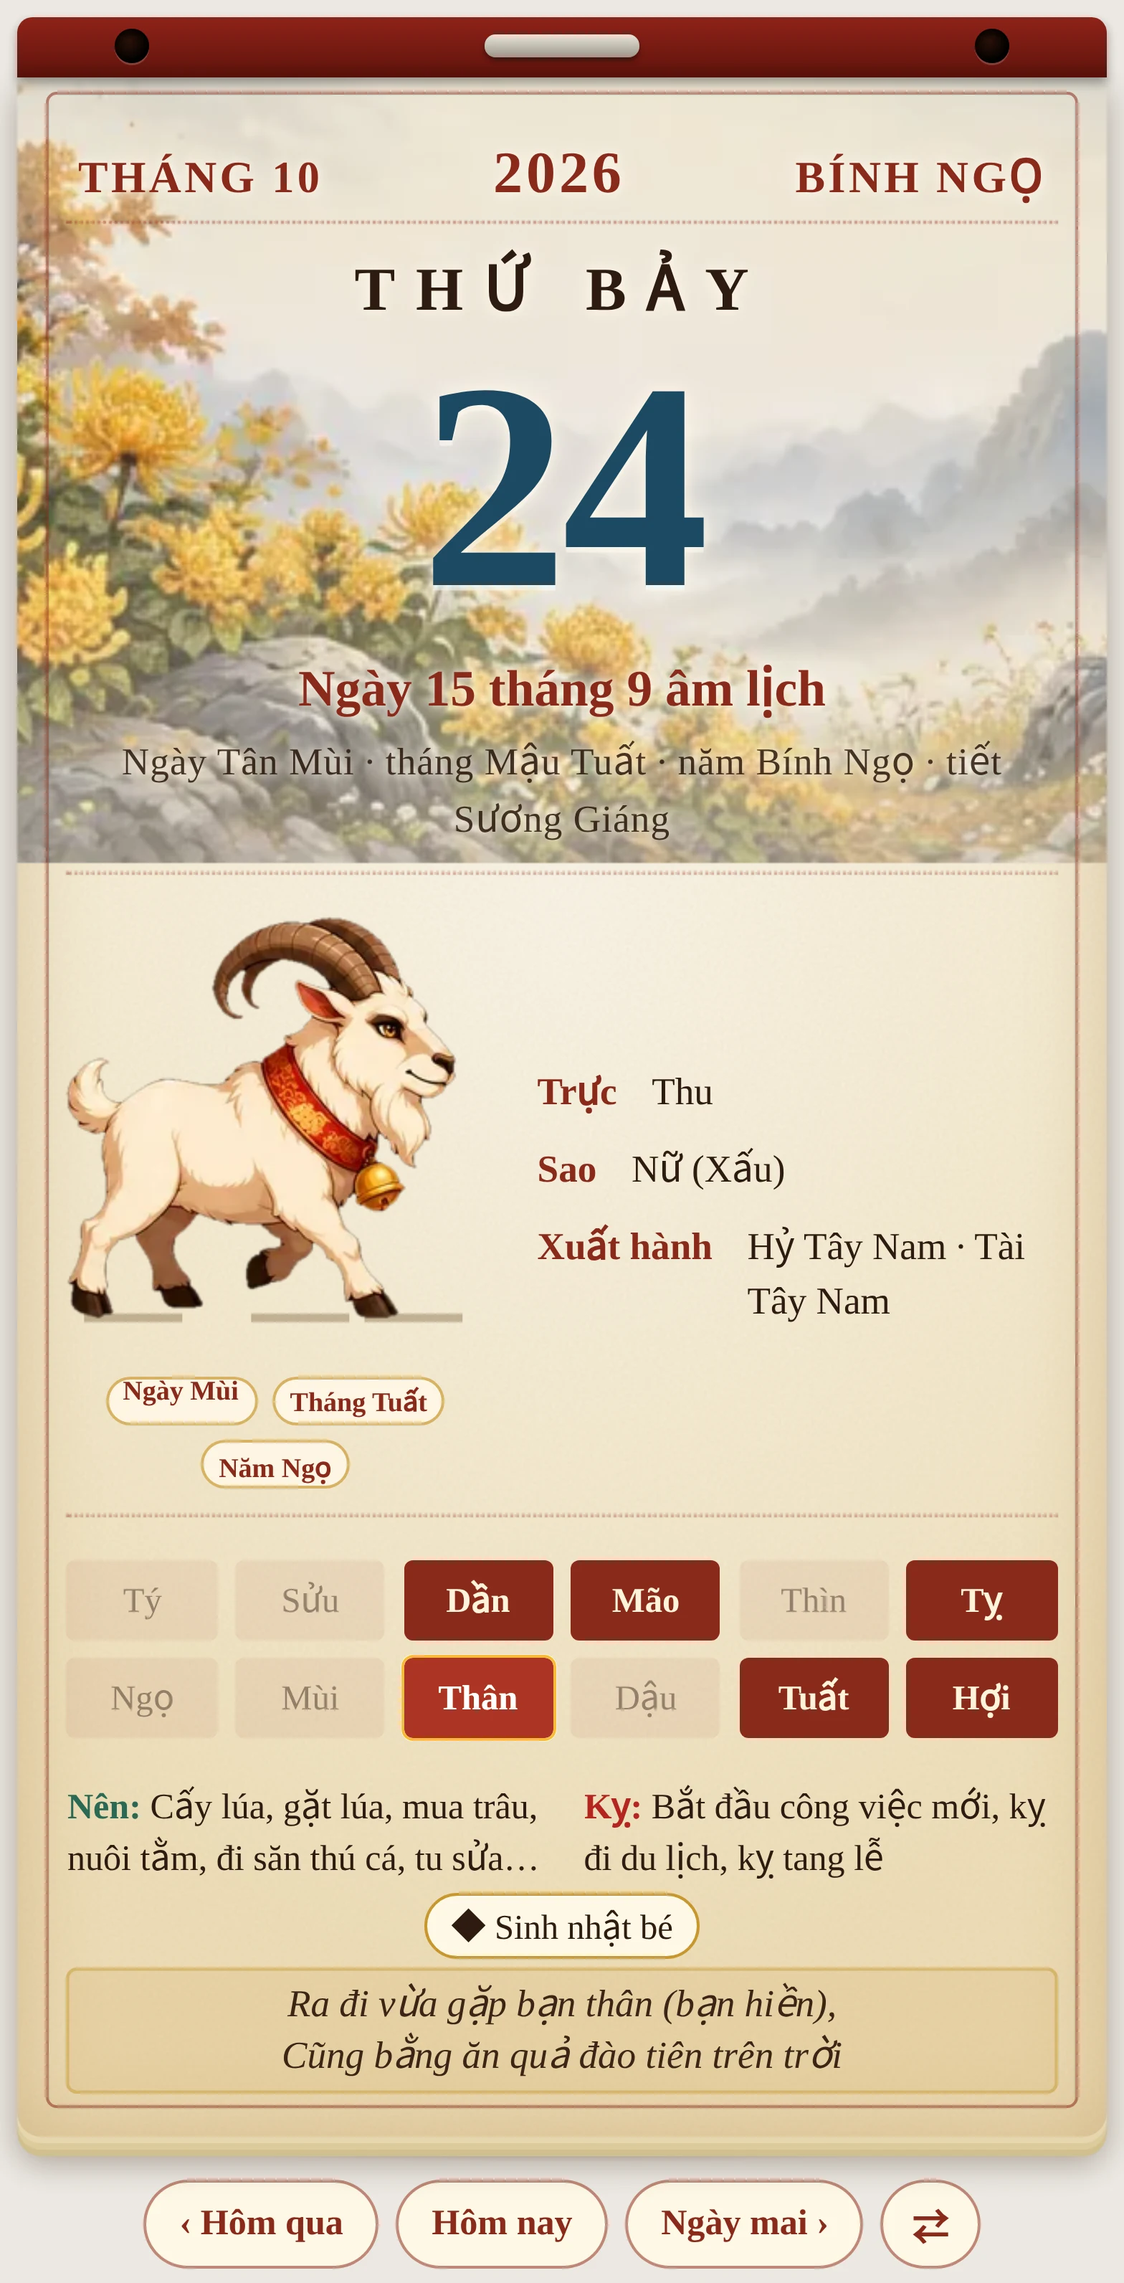
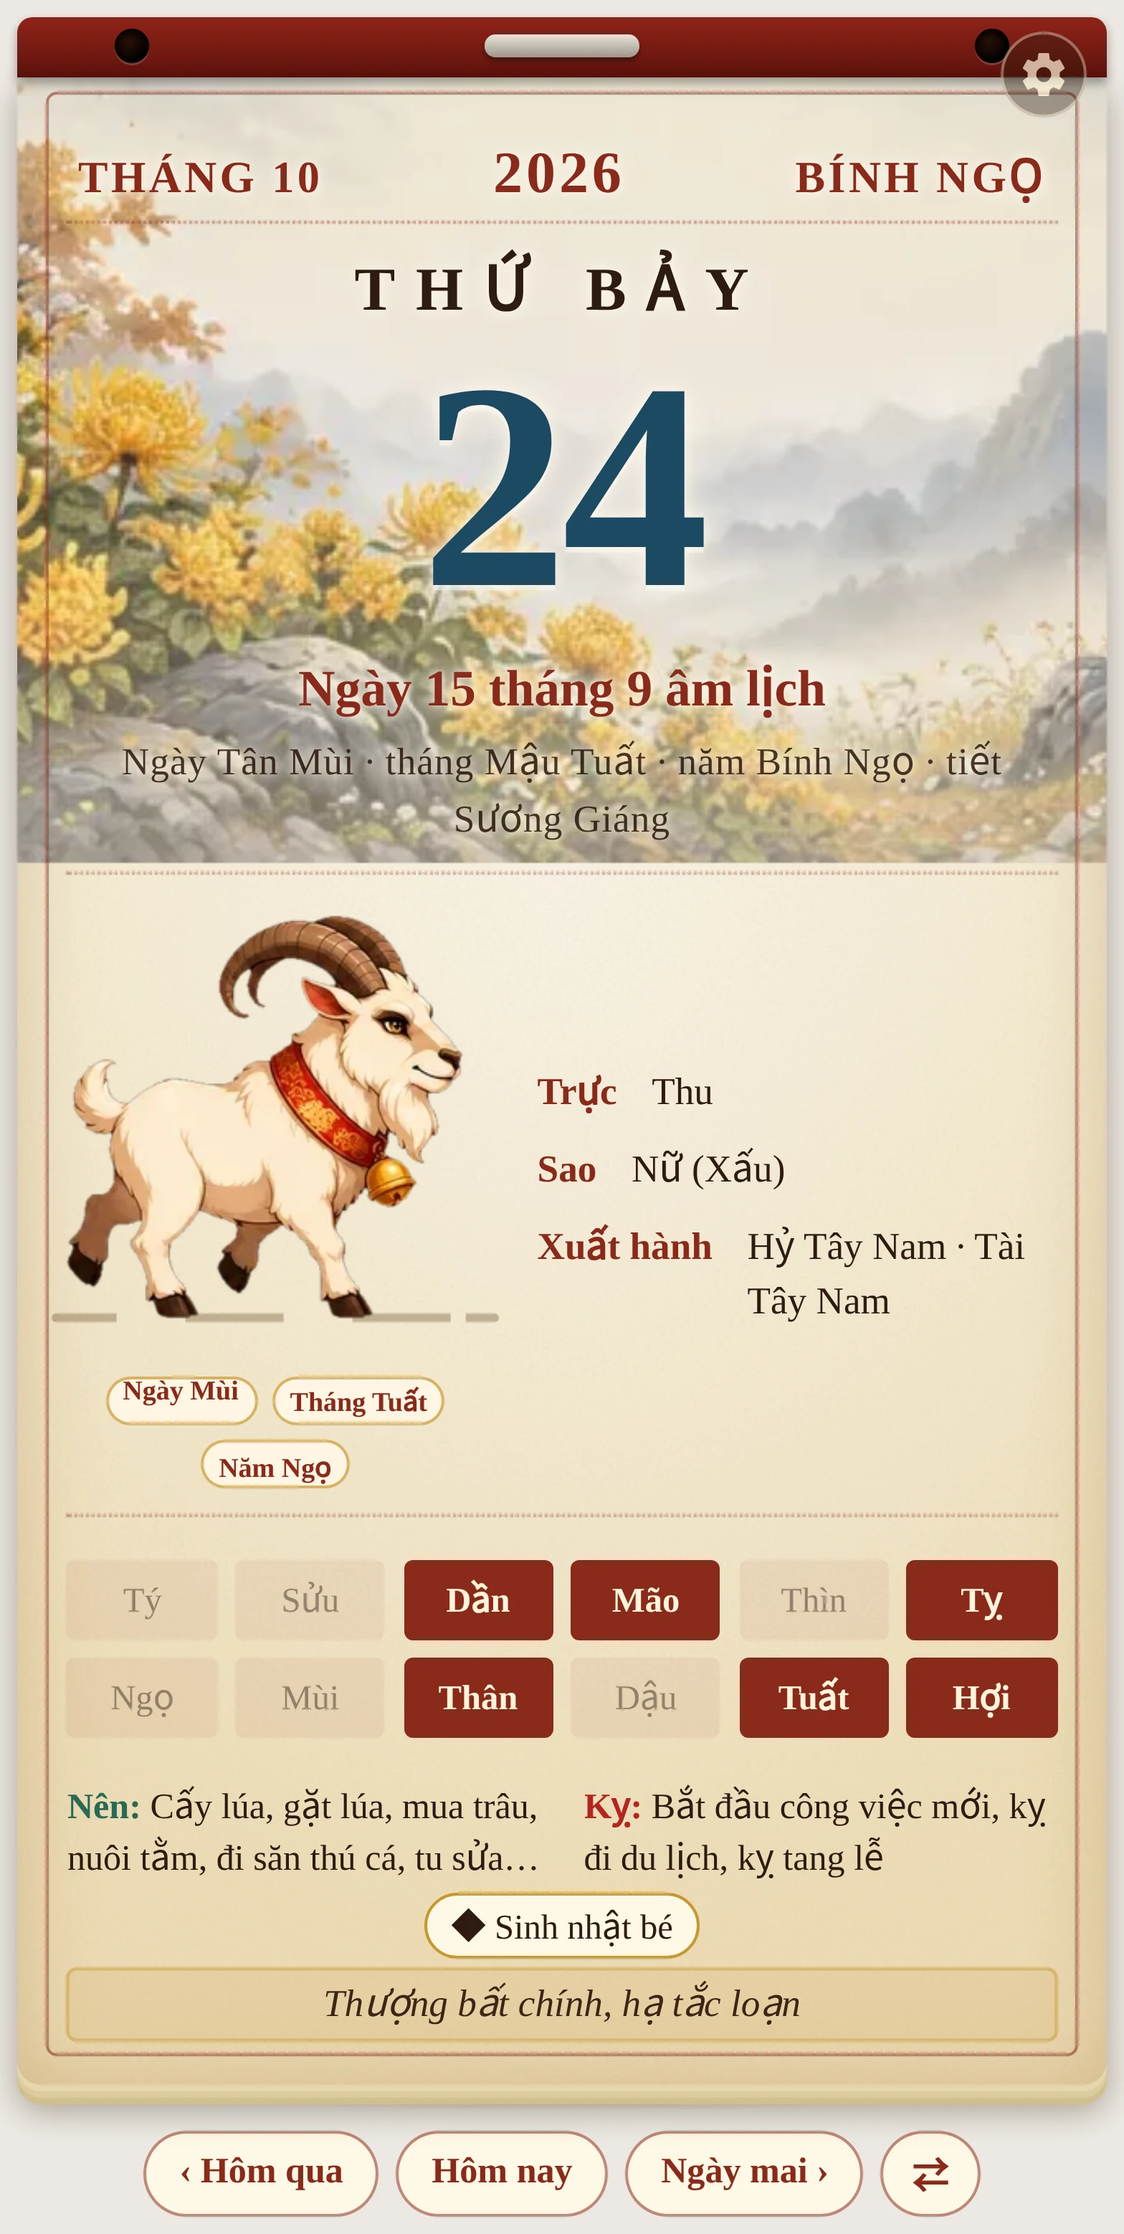
Thẻ: nút bánh răng chỉnh tốc độ, thời gian bước và nghỉ ngay trên thẻ
- Bảng ba thanh trượt (Tốc độ bước, Bước trong, Nghỉ) mở bằng nút bánh răng ở góc thẻ, cả hai kiểu lịch; áp dụng tức thì,
  nhớ riêng từng thiết bị (localStorage, bọc try/catch); Mặc định xoá giá trị đã nhớ; cai_dat: false để ẩn nút.
- nghi_giay: 0 = bước liên tục; toc_do giới hạn 0,25–4.
- Hộp cấu hình trong trình chỉnh thẻ của HA (ha-form) với cùng các tuỳ chọn.
- Test giữ README và thẻ không lệch tên tuỳ chọn.

Claude-Session: https://claude.ai/code/session_01RuPofRMvzvZPPPoDv3dRha

diff --git a/custom_components/lich_viet/frontend/lich-bloc-xua-card.js b/custom_components/lich_viet/frontend/lich-bloc-xua-card.js
@@ -103,8 +103,8 @@ async function hinhThu(khoa, chay, heSo = 1) {
   const sp = await dongSprite(khoa);
   if (sp) {
     const c = THU_ANH[khoa], n = KHUNG_BUOC;
-    const fk = c.fps * (+heSo > 0 ? +heSo : 1);
-    return `<div class="spx${chay ? " chay" : ""}" style="aspect-ratio:${sp.rong}/${sp.cao};--bg:url('${GOC}${khoa}.webp');--bs:${c.cot * 100}% ${c.hang * 100}%;--sd:${(n / fk).toFixed(3)}s;--dd:${(n / fk / 3).toFixed(3)}s;--spa:sp-${khoa};--p4:${viTri(KHUNG_BUOC, c.cot, c.hang)};--p5:${viTri(KHUNG_BUOC + 1, c.cot, c.hang)}" role="img" aria-label="${esc(TEN_THU[khoa] || "")}"><i class="a"></i><i class="b"></i><b class="dat"></b></div>`;
+    const fk = c.fps * Math.min(4, Math.max(0.25, +heSo > 0 ? +heSo : 1));   // toc_do giới hạn 0,25–4
+    return `<div class="spx${chay ? " chay" : ""}" data-fps="${c.fps}" style="aspect-ratio:${sp.rong}/${sp.cao};--bg:url('${GOC}${khoa}.webp');--bs:${c.cot * 100}% ${c.hang * 100}%;--sd:${(n / fk).toFixed(3)}s;--dd:${(n / fk / 3).toFixed(3)}s;--spa:sp-${khoa};--p4:${viTri(KHUNG_BUOC, c.cot, c.hang)};--p5:${viTri(KHUNG_BUOC + 1, c.cot, c.hang)}" role="img" aria-label="${esc(TEN_THU[khoa] || "")}"><i class="a"></i><i class="b"></i><b class="dat"></b></div>`;
   }
   return `<div class="thu ${chay ? "di" : "nghi"}">${veConGiap(khoa, "u" + ++_uid)}</div>`;
 }
@@ -177,6 +177,19 @@ button{font:inherit;color:inherit}
 .bong-to{position:absolute;inset:0;z-index:5;pointer-events:none;opacity:0;background:linear-gradient(180deg,rgba(255,255,255,.0) 0,rgba(40,20,5,.45) 100%)}
 .canh-xe{position:absolute;z-index:7;top:5.6cqw;right:0;width:13cqw;height:13cqw;pointer-events:none;
  background:linear-gradient(225deg,rgba(0,0,0,0) 48%,rgba(90,60,20,.28) 50%,#fff7e0 52%,#e3d2a6 100%);border-radius:0 0 0 2cqw;transition:width .25s,height .25s;opacity:.0}
+.banh{position:absolute;top:1.4cqw;right:1.8cqw;z-index:30;width:30px;height:30px;border-radius:50%;border:1px solid rgba(255,244,217,.55);background:rgba(45,27,16,.55);color:#fff4d9;display:flex;align-items:center;justify-content:center;padding:0;cursor:pointer;opacity:.7;transition:opacity .2s,transform .3s;-webkit-tap-highlight-color:transparent}
+.banh:hover,.banh.mo{opacity:1}.banh.mo{transform:rotate(60deg)}
+.cd{position:absolute;top:calc(1.4cqw + 36px);right:1.8cqw;z-index:30;width:min(92%,300px);box-sizing:border-box;padding:12px 14px 10px;border-radius:12px;background:rgba(250,243,224,.97);border:1px solid var(--vien);box-shadow:0 8px 28px rgba(0,0,0,.45);color:var(--muc);font:14px/1.35 "Noto Serif","Playfair Display",Georgia,serif}
+.cd[hidden]{display:none}
+.cd-tieude{font-weight:700;color:var(--vien);margin-bottom:8px}
+.cd-hang{display:grid;grid-template-columns:1fr auto;gap:2px 8px;margin-bottom:10px}
+.cd-hang input{grid-column:1/3;width:100%;margin:2px 0;accent-color:var(--vien)}
+.cd-hang small{grid-column:1/3;opacity:.7;font-size:12px}
+.cd-gt{color:var(--vien);font-variant-numeric:tabular-nums}
+.cd-nut{display:flex;gap:8px;justify-content:flex-end}
+.cd-nut button{border:1px solid var(--vien);background:#fff8e6;color:var(--vien);border-radius:99px;padding:5px 14px;font:inherit;font-weight:700;cursor:pointer}
+.cd-nut .chinh{background:var(--vien);color:#fff4d9}
+.cd-chuthich{margin-top:6px;font-size:11px;opacity:.6;text-align:right}
 .ban:hover .canh-xe{opacity:1}
 /* thanh nút */
 .thanhnut{display:flex;flex-wrap:wrap;justify-content:center;gap:1.6cqw;margin-top:4cqw}
@@ -247,10 +260,18 @@ class LichBlocXuaCard extends HTMLElement {
     this._suKien = new Map(); this._thuTimer = 0; this._midnight = 0; this._hien = true; this._ready = false;
   }
   static getStubConfig() { return { type: "custom:lich-bloc-xua-card", mode: "bloc" }; }
+  static getConfigElement() { return document.createElement("lich-bloc-xua-card-editor"); }
   getCardSize() { return this._cfg.mode === "de_ban" ? 8 : 9; }
+
+  // ----- cài đặt chuyển động ngay trên thẻ: nhớ riêng từng thiết bị (localStorage), không cần sửa YAML -----
+  _khoaLuu() { return "lich_viet_card:" + (this._cfg.calendar_entity || "") + ":" + (this._cfg.mode || ""); }
+  _docLuu() { try { return JSON.parse(localStorage.getItem(this._khoaLuu()) || "{}") || {}; } catch (e) { return {}; } }
+  _ghiLuu() { try { Object.keys(this._ghi).length ? localStorage.setItem(this._khoaLuu(), JSON.stringify(this._ghi)) : localStorage.removeItem(this._khoaLuu()); } catch (e) { /* không lưu được thì chỉ áp dụng phiên này */ } }
+  _cai(k) { const v = this._ghi && this._ghi[k]; return v !== undefined ? v : this._cfg[k]; }
 
   setConfig(c) {
     this._cfg = { mode: "bloc", hoat_hoa: true, nut: true, rong: 380, ...c };
+    this._ghi = this._docLuu();
     if (!["bloc", "de_ban"].includes(this._cfg.mode)) throw new Error("mode phải là bloc hoặc de_ban");
     this._ready = false; if (this.isConnected && this._hass) { this._ready = true; this._dung(); }
   }
@@ -271,13 +292,44 @@ class LichBlocXuaCard extends HTMLElement {
   // ----- dựng khung -----
   async _dung() {
     const c = this._cfg, gen = (this._gen = (this._gen || 0) + 1);
-    this.shadowRoot.innerHTML = `<style>${CSS}</style><div class="ban" style="--rong:${+c.rong || 380}px"><div class="goc"></div></div>`;
+    this.shadowRoot.innerHTML = `<style>${CSS}</style><div class="ban" style="--rong:${+c.rong || 380}px"><div class="goc"></div>${c.cai_dat === false ? "" : this._htmlCaiDat()}</div>`;
     this._goc = this.shadowRoot.querySelector(".goc"); this._banEl = this.shadowRoot.querySelector(".ban");
     this._ngay = this._ngay || new Date();
     if (c.mode === "de_ban") await this._veDeBan(gen); else await this._veBloc(gen);
     if (gen !== this._gen) return;               // đã có lần dựng mới hơn
-    this._datGioNuaDem(); this._lichThu(); this._capNhatChay(); this._gan();
+    this._datGioNuaDem(); this._lichThu(); this._capNhatChay(); this._gan(); this._ganCaiDat();
     this._taiSuKien();
+  }
+
+  _htmlCaiDat() {
+    const h = (ten, k, min, max, step, mota) => `<label class="cd-hang"><span class="cd-ten">${ten}</span><b class="cd-gt" data-gt="${k}"></b>
+      <input type="range" data-k="${k}" min="${min}" max="${max}" step="${step}" aria-label="${ten}"><small>${mota}</small></label>`;
+    return `<button class="banh" type="button" data-banh title="Cài đặt chuyển động" aria-label="Cài đặt chuyển động"><svg viewBox="0 0 24 24" width="18" height="18" aria-hidden="true"><path fill="currentColor" d="M12,15.5A3.5,3.5 0 0,1 8.5,12A3.5,3.5 0 0,1 12,8.5A3.5,3.5 0 0,1 15.5,12A3.5,3.5 0 0,1 12,15.5M19.43,12.97C19.47,12.65 19.5,12.33 19.5,12C19.5,11.67 19.47,11.34 19.43,11L21.54,9.37C21.73,9.22 21.78,8.95 21.66,8.73L19.66,5.27C19.54,5.05 19.27,4.96 19.05,5.05L16.56,6.05C16.04,5.66 15.5,5.32 14.87,5.07L14.5,2.42C14.46,2.18 14.25,2 14,2H10C9.75,2 9.54,2.18 9.5,2.42L9.13,5.07C8.5,5.32 7.96,5.66 7.44,6.05L4.95,5.05C4.73,4.96 4.46,5.05 4.34,5.27L2.34,8.73C2.21,8.95 2.27,9.22 2.46,9.37L4.57,11C4.53,11.34 4.5,11.67 4.5,12C4.5,12.33 4.53,12.65 4.57,12.97L2.46,14.63C2.27,14.78 2.21,15.05 2.34,15.27L4.34,18.73C4.46,18.95 4.73,19.03 4.95,18.95L7.44,17.94C7.96,18.34 8.5,18.68 9.13,18.93L9.5,21.58C9.54,21.82 9.75,22 10,22H14C14.25,22 14.46,21.82 14.5,21.58L14.87,18.93C15.5,18.67 16.04,18.34 16.56,17.94L19.05,18.95C19.27,19.03 19.54,18.95 19.66,18.73L21.66,15.27C21.78,15.05 21.73,14.78 21.54,14.63L19.43,12.97Z"/></svg></button>
+      <div class="cd" data-cd hidden><div class="cd-tieude">Chuyển động của con giáp</div>
+        ${h("Tốc độ bước", "toc_do", 0.25, 3, 0.05, "1 là mặc định; nhỏ hơn là chậm hơn")}
+        ${h("Bước trong", "chay_giay", 1, 60, 1, "mỗi lần con vật bước bao lâu")}
+        ${h("Nghỉ", "nghi_giay", 0, 300, 5, "nghỉ bao lâu rồi bước lại; 0 là bước liên tục")}
+        <div class="cd-nut"><button type="button" data-mac>Mặc định</button><button type="button" data-xong class="chinh">Xong</button></div>
+        <div class="cd-chuthich">Lưu riêng trên thiết bị này.</div></div>`;
+  }
+  _ganCaiDat() {
+    const R = this.shadowRoot, panel = R.querySelector("[data-cd]"), banh = R.querySelector("[data-banh]"); if (!panel || !banh) return;
+    const mac = { toc_do: 1, chay_giay: 6, nghi_giay: 25 };
+    const hienGt = (k, v) => { const e = R.querySelector(`[data-gt="${k}"]`); if (e) e.textContent = k === "toc_do" ? "×" + (+v).toFixed(2) : (+v === 0 && k === "nghi_giay" ? "không nghỉ" : v + " giây"); };
+    const dat = () => R.querySelectorAll("input[data-k]").forEach((i) => { const k = i.dataset.k, v = this._cai(k); i.value = v !== undefined && v !== "" ? v : mac[k]; hienGt(k, i.value); });
+    dat();
+    const apToc = () => R.querySelectorAll(".spx").forEach((e) => {
+      const fk = (+e.dataset.fps || 1) * Math.min(4, Math.max(0.25, +this._cai("toc_do") > 0 ? +this._cai("toc_do") : 1));
+      e.style.setProperty("--sd", (KHUNG_BUOC / fk).toFixed(3) + "s"); e.style.setProperty("--dd", (KHUNG_BUOC / fk / 3).toFixed(3) + "s");
+    });
+    banh.addEventListener("click", (e) => { e.stopPropagation(); panel.hidden = !panel.hidden; banh.classList.toggle("mo", !panel.hidden); });
+    panel.addEventListener("pointerdown", (e) => e.stopPropagation());
+    R.querySelectorAll("input[data-k]").forEach((i) => {
+      i.addEventListener("input", () => { const k = i.dataset.k; this._ghi = { ...this._ghi, [k]: +i.value }; hienGt(k, i.value); if (k === "toc_do") apToc(); });
+      i.addEventListener("change", () => { this._ghiLuu(); if (i.dataset.k !== "toc_do") this._lichThu(); });
+    });
+    R.querySelector("[data-mac]").addEventListener("click", () => { this._ghi = {}; this._ghiLuu(); dat(); apToc(); this._lichThu(); });
+    R.querySelector("[data-xong]").addEventListener("click", () => { panel.hidden = true; banh.classList.remove("mo"); });
   }
   _capNhatChay() {
     const chay = this._hien && !document.hidden && this._cfg.hoat_hoa !== false;
@@ -297,12 +349,13 @@ class LichBlocXuaCard extends HTMLElement {
   _lichThu() {
     clearTimeout(this._thuTimer);
     if (this._cfg.hoat_hoa === false) return;
-    const chayMs = (+this._cfg.chay_giay > 0 ? +this._cfg.chay_giay : 6) * 1000;    // chạy bao lâu
-    const nghiMs = (+this._cfg.nghi_giay > 0 ? +this._cfg.nghi_giay : 25) * 1000;   // nghỉ bao lâu rồi chạy lại
+    const chayMs = (+this._cai("chay_giay") > 0 ? +this._cai("chay_giay") : 6) * 1000;    // chạy bao lâu
+    const ng = this._cai("nghi_giay"), nghiMs = (ng === 0 || ng === "0" ? 0 : +ng > 0 ? +ng : 25) * 1000;   // nghỉ bao lâu rồi chạy lại; 0 = chạy liên tục
     const doi = (chay) => {
       this._chayThu = chay; this._banEl?.classList.toggle("dang-chay", chay);
       this.shadowRoot.querySelectorAll(".sp,.spx").forEach((e) => e.classList.toggle("chay", chay));
       this.shadowRoot.querySelectorAll(".thu").forEach((e) => { e.classList.toggle("di", chay); e.classList.toggle("nghi", !chay); });
+      if (!nghiMs) return;   // không nghỉ: cứ chạy mãi
       this._thuTimer = setTimeout(() => doi(!chay), (chay ? chayMs : nghiMs) * (0.9 + Math.random() * 0.2));
     };
     doi(true);
@@ -348,7 +401,7 @@ class LichBlocXuaCard extends HTMLElement {
   async _traTo(d) {
     const tt = thongTinNgay(d), khoa = chiThu(tt, this._cfg.con_giap), now = new Date();
     const hd = gioHienTai(tt.gio, now), laHomNay = cungNgay(d, now);
-    const hinh = await hinhThu(khoa, this._chayThu !== false, this._cfg.toc_do);
+    const hinh = await hinhThu(khoa, this._chayThu !== false, this._cai("toc_do"));
     const gioHtml = ["Tý", "Sửu", "Dần", "Mão", "Thìn", "Tỵ", "Ngọ", "Mùi", "Thân", "Dậu", "Tuất", "Hợi"].map((chi) => {
       const g = tt.gio.find((x) => x.chi === chi); return `<span class="${g ? "hd" : ""}${g && laHomNay && hd && hd.chi === chi ? " nay" : ""}" title="${g ? `${g.tu}–${g.den}h` : ""}">${chi}</span>`;
     }).join("");
@@ -460,7 +513,7 @@ class LichBlocXuaCard extends HTMLElement {
   }
   async _doiThuTheoNgay(d) {
     const dt = this._goc.querySelector(".dau-thang"), kh = dt && dt.querySelector(".canh-thu"); if (!kh) return;
-    const tt = thongTinNgay(d), html = await hinhThu(chiThu(tt, this._cfg.con_giap), this._chayThu !== false, this._cfg.toc_do);
+    const tt = thongTinNgay(d), html = await hinhThu(chiThu(tt, this._cfg.con_giap), this._chayThu !== false, this._cai("toc_do"));
     const khoi = kh.querySelector(".khoi-thu"), hh = kh.querySelector(".hh");
     if (khoi) { khoi.innerHTML = html; khoi.classList.remove("hien"); void khoi.offsetWidth; khoi.classList.add("hien"); }
     if (hh) hh.innerHTML = huyHieu(tt);
@@ -479,7 +532,7 @@ class LichBlocXuaCard extends HTMLElement {
     const dau = new Date(y, m, 1), so = new Date(y, m + 1, 0).getDate(), lech = (dau.getDay() + 6) % 7;
     const ngayHienThu = (this._chonNgay.getMonth() === m && this._chonNgay.getFullYear() === y) ? this._chonNgay : (new Date().getMonth() === m && new Date().getFullYear() === y ? new Date() : new Date(y, m, 1));
     const ttThu = thongTinNgay(ngayHienThu);
-    const hinh = await hinhThu(chiThu(ttThu, this._cfg.con_giap), this._chayThu !== false, this._cfg.toc_do);
+    const hinh = await hinhThu(chiThu(ttThu, this._cfg.con_giap), this._chayThu !== false, this._cai("toc_do"));
     const a1 = getLunarDate(1, m + 1, y), a2 = getLunarDate(so, m + 1, y), now = new Date();
     let cells = ""; const hdr = ["T2", "T3", "T4", "T5", "T6", "T7", "CN"].map((t, i) => `<div class="th${i === 6 ? " cn" : ""}">${t}</div>`).join("");
     for (let i = 0; i < lech; i++) { const d = congNgay(dau, i - lech); cells += this._o(d, true, now); }
@@ -546,6 +599,45 @@ class LichBlocXuaCard extends HTMLElement {
     this.addEventListener("keydown", (e) => { if (e.key === "ArrowRight" || e.key === "ArrowUp") this._hanhDong("sau"); else if (e.key === "ArrowLeft" || e.key === "ArrowDown") this._hanhDong("truoc"); });
   }
 }
+
+
+// ---------- hộp cấu hình trong trình chỉnh thẻ của Home Assistant (dùng ha-form có sẵn của HA) ----------
+const MAC_DINH = { mode: "bloc", con_giap: "ngay", hoat_hoa: true, nut: true, toc_do: 1, chay_giay: 6, nghi_giay: 25, rong: 380 };
+const SCHEMA_SUA = [
+  { name: "mode", selector: { select: { mode: "dropdown", options: [{ value: "bloc", label: "Tờ lịch bloc (xé từng ngày)" }, { value: "de_ban", label: "Lịch để bàn (lật tháng)" }] } } },
+  { name: "calendar_entity", selector: { entity: { domain: "calendar" } } },
+  { name: "con_giap", selector: { select: { mode: "dropdown", options: [{ value: "ngay", label: "Theo ngày (đổi mỗi tờ)" }, { value: "thang", label: "Theo tháng" }, { value: "nam", label: "Theo năm" }] } } },
+  { name: "toc_do", selector: { number: { min: 0.25, max: 3, step: 0.05, mode: "slider" } } },
+  { name: "chay_giay", selector: { number: { min: 1, max: 60, step: 1, mode: "slider", unit_of_measurement: "giây" } } },
+  { name: "nghi_giay", selector: { number: { min: 0, max: 300, step: 5, mode: "slider", unit_of_measurement: "giây" } } },
+  { name: "hoat_hoa", selector: { boolean: {} } },
+  { name: "nut", selector: { boolean: {} } },
+  { name: "rong", selector: { number: { min: 260, max: 600, step: 10, mode: "box", unit_of_measurement: "px" } } },
+];
+const NHAN_SUA = { mode: "Kiểu lịch", calendar_entity: "Lịch sự kiện (thực thể calendar)", con_giap: "Con giáp hiển thị", toc_do: "Tốc độ bước (1 = mặc định; nhỏ hơn là chậm hơn)",
+  chay_giay: "Con vật bước trong bao lâu", nghi_giay: "Rồi đứng nghỉ bao lâu trước khi bước lại (0 = bước liên tục)", hoat_hoa: "Bật hoạt hoạ", nut: "Hiện hàng nút Hôm qua / Hôm nay / Ngày mai", rong: "Chiều rộng tối đa của thẻ" };
+class LichBlocXuaCardEditor extends HTMLElement {
+  constructor() { super(); this.attachShadow({ mode: "open" }); this._cfg = {}; this._hass = null; }
+  setConfig(c) { this._cfg = { ...c }; this._ve(); }
+  set hass(h) { this._hass = h; if (this._form) this._form.hass = h; }
+  _ve() {
+    if (!this._form) {
+      this._form = document.createElement("ha-form");
+      this._form.addEventListener("value-changed", (e) => this._doi(e));
+      this.shadowRoot.appendChild(this._form);
+    }
+    this._form.hass = this._hass;
+    this._form.schema = SCHEMA_SUA;
+    this._form.computeLabel = (sc) => NHAN_SUA[sc.name] || sc.name;
+    this._form.data = { ...MAC_DINH, ...this._cfg };
+  }
+  _doi(e) {
+    e.stopPropagation();
+    this._cfg = { ...this._cfg, ...e.detail.value };
+    this.dispatchEvent(new CustomEvent("config-changed", { detail: { config: this._cfg }, bubbles: true, composed: true }));
+  }
+}
+if (!customElements.get("lich-bloc-xua-card-editor")) customElements.define("lich-bloc-xua-card-editor", LichBlocXuaCardEditor);
 
 if (!customElements.get("lich-bloc-xua-card")) customElements.define("lich-bloc-xua-card", LichBlocXuaCard);
 window.customCards = window.customCards || [];

diff --git a/tests/test_cau_truc.py b/tests/test_cau_truc.py
@@ -55,3 +55,13 @@ def test_brand_du_bon_tep_va_dung_kich_thuoc():
 def test_the_nhan_loi_cau_hinh_sai():
     js = (GOC / "frontend" / "lich-bloc-xua-card.js").read_text(encoding="utf-8")
     assert 'mode phải là bloc hoặc de_ban' in js and 'customElements.define("lich-bloc-xua-card"' in js
+
+
+@pytest.mark.parametrize("khoa", ["toc_do", "chay_giay", "nghi_giay", "cai_dat"])
+def test_tuy_chon_chuyen_dong_co_trong_the_va_readme(khoa):
+    """Mỗi tuỳ chọn chuyển động phải được thẻ đọc (kể cả bảng bánh răng) và được README ghi lại, tránh lệch nhau."""
+    the = (GOC / "frontend" / "lich-bloc-xua-card.js").read_text(encoding="utf-8")
+    readme = (GOC.parent.parent / "README.md").read_text(encoding="utf-8")
+    assert khoa in the and f"{khoa}:" in readme
+    if khoa != "cai_dat":
+        assert f'data-k="{khoa}"' in the or f"data-k=\"${{k}}\"" in the or f'"{khoa}"' in the
